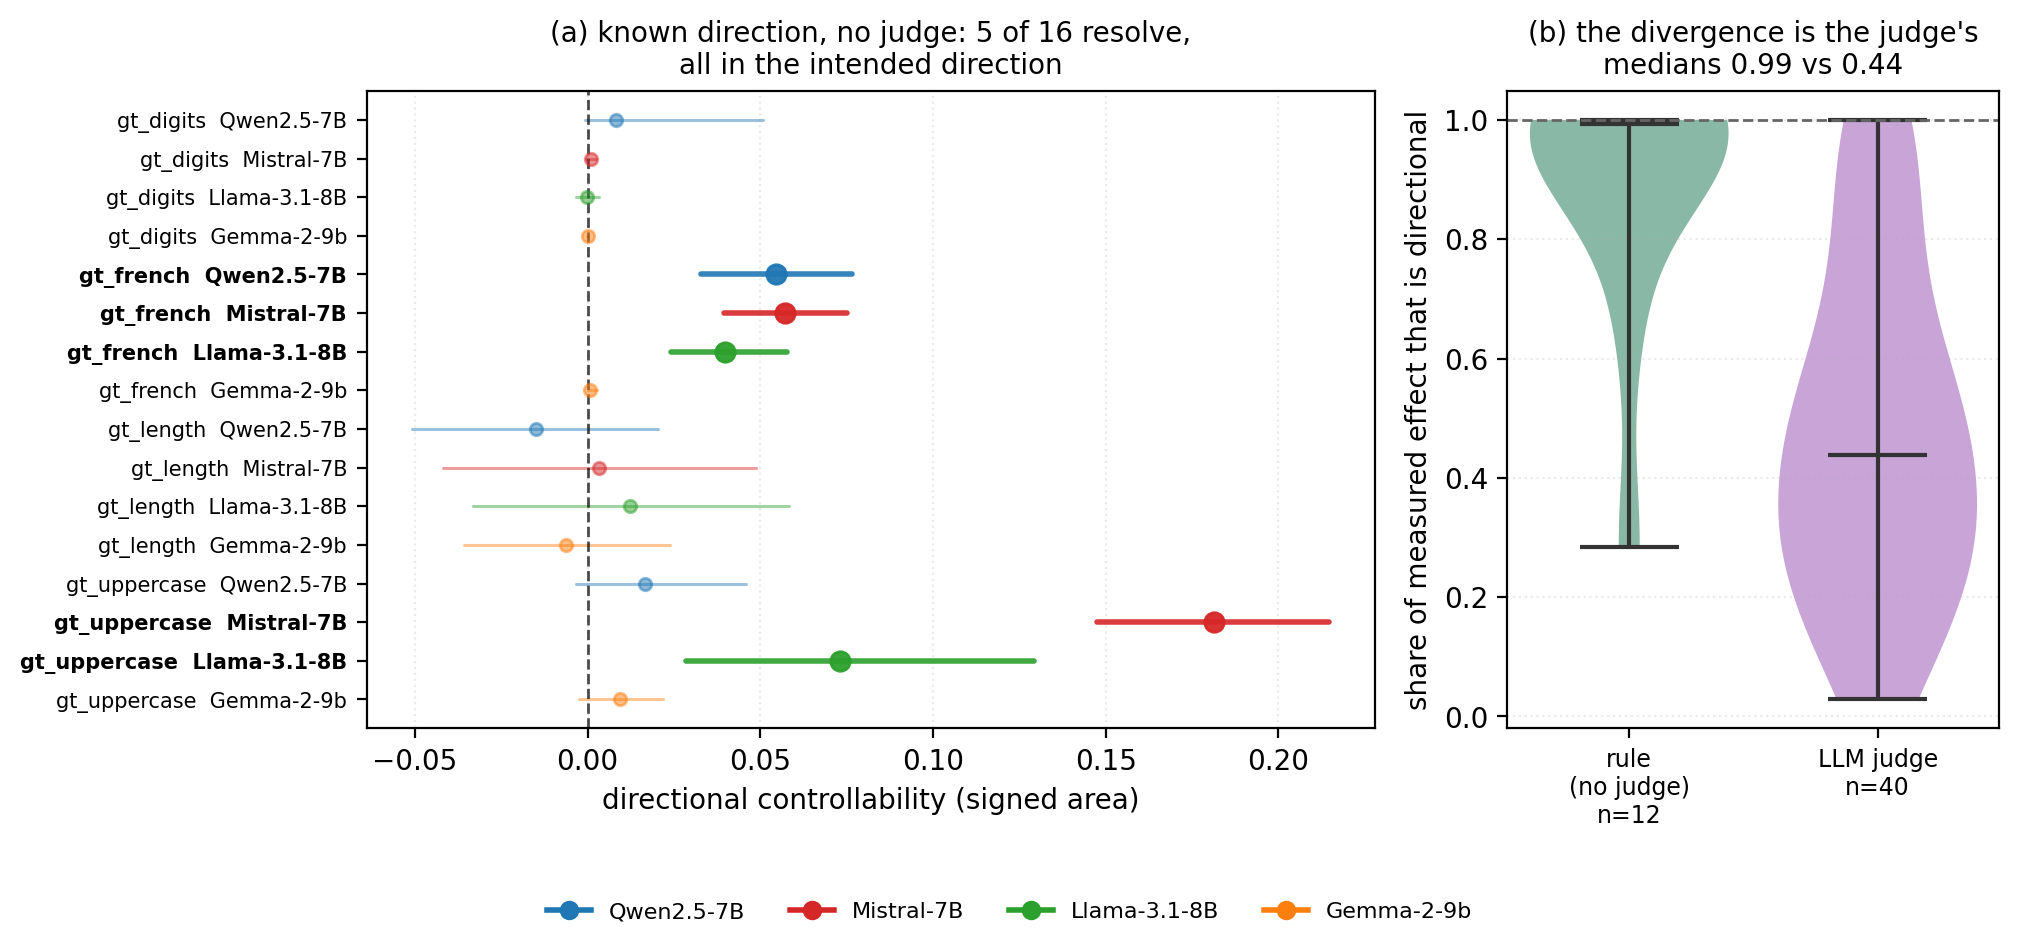
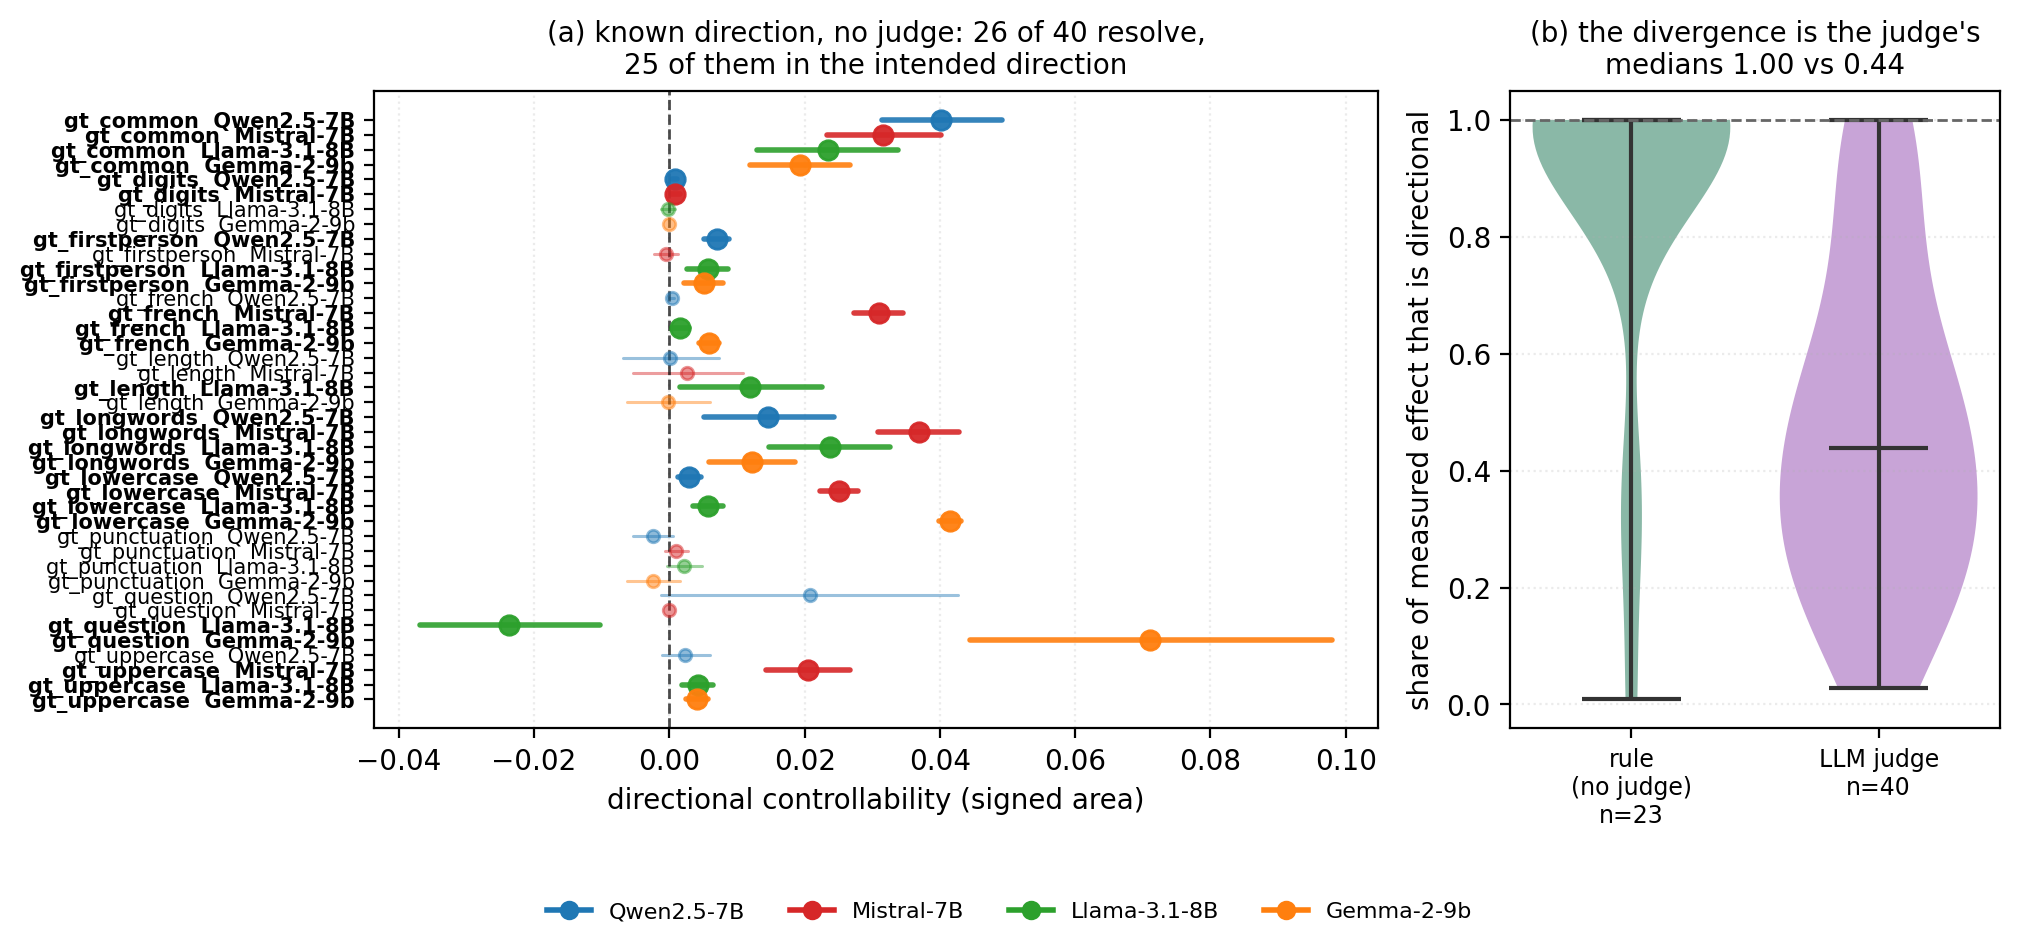
regenerate figures and tables; flag what cannot be corrected
fig9 and _table_groundtruth carry the corrected ground-truth intervals,
26 of 40 resolving with 25 positive. The figure title read "all in the
intended direction" as a hardcoded string while one point resolves the
other way; it is computed from the plotted data now.

fig6, fig7, fig8 and the ceiling, loco and directional tables are
unchanged on regeneration, correctly: they come from the main study, which
has not been re-run, and none depends on behavior_ci. gap_map rebuilt and
unaffected, since danger-zone membership is decided on controllability_ci,
which always was an interval for the mean.

The paper's judge-scored sample is the original main study and predates
DosePoint.scores, so its intervals are the superseded percentile form and
cannot be corrected offline. Directional share is a ratio of point
estimates and stays comparable; a resolution count is not, so quoting
26/40 against 3/30 would compare corrected against uncorrected. Both
scripts now warn instead of printing the numbers bare, with has_scores
carried per row so the check is per file.

The honest comparison today is the re-run judge concepts, four on four
models, all corrected: 65% against 44%.

301 tests pass.

diff --git a/paper/_table_groundtruth.tex b/paper/_table_groundtruth.tex
@@ -1,0 +1,58 @@
+\begin{table}[htbp]
+  \caption{Directional controllability on the ground-truth concepts,
+  whose readout is a rule over the generated string and whose intended
+  direction is therefore known in advance. 26 of 40 points have an interval
+  excluding zero and \emph{every one is positive}: where the sign is
+  resolvable, steering moved the model the way the direction was built to move
+  it. \textbf{Pos} and \textbf{Neg} are the same integral over one arm,
+  oriented so positive means the intended direction.}
+  \label{tab:groundtruth}
+  \centering
+  \footnotesize
+  \begin{tabular}{llccccc}
+    \toprule
+    Concept & Model & Abs & Signed & 95\% CI & Pos & Neg \\
+    \midrule
+    \texttt{gt\_common} & Qwen2.5-7B & $0.040$ & $+0.040$ & $[+0.031, +0.049]$\,\textbf{R} & $+0.063$ & $+0.025$ \\
+    \texttt{gt\_common} & Mistral-7B & $0.032$ & $+0.032$ & $[+0.023, +0.040]$\,\textbf{R} & $+0.041$ & $+0.028$ \\
+    \texttt{gt\_common} & Llama-3.1-8B & $0.023$ & $+0.023$ & $[+0.013, +0.034]$\,\textbf{R} & $+0.028$ & $+nan$ \\
+    \texttt{gt\_common} & Gemma-2-9b & $0.023$ & $+0.019$ & $[+0.012, +0.027]$\,\textbf{R} & $+0.029$ & $+0.015$ \\
+    \texttt{gt\_digits} & Qwen2.5-7B & $0.001$ & $+0.001$ & $[+0.000, +0.001]$\,\textbf{R} & $+0.000$ & $+0.001$ \\
+    \texttt{gt\_digits} & Mistral-7B & $0.001$ & $+0.001$ & $[+0.000, +0.002]$\,\textbf{R} & $+0.001$ & $+0.001$ \\
+    \texttt{gt\_digits} & Llama-3.1-8B & $0.001$ & $-0.000$ & $[-0.001, +0.001]$ & $-0.000$ & $-0.000$ \\
+    \texttt{gt\_digits} & Gemma-2-9b & $0.000$ & $+0.000$ & $[-0.000, +0.000]$ & $+0.000$ & $+0.000$ \\
+    \texttt{gt\_firstperson} & Qwen2.5-7B & $0.007$ & $+0.007$ & $[+0.005, +0.009]$\,\textbf{R} & $+0.008$ & $+0.009$ \\
+    \texttt{gt\_firstperson} & Mistral-7B & $0.003$ & $-0.001$ & $[-0.002, +0.001]$ & $+0.001$ & $-0.002$ \\
+    \texttt{gt\_firstperson} & Llama-3.1-8B & $0.006$ & $+0.006$ & $[+0.003, +0.009]$\,\textbf{R} & $+0.007$ & $+0.004$ \\
+    \texttt{gt\_firstperson} & Gemma-2-9b & $0.005$ & $+0.005$ & $[+0.002, +0.008]$\,\textbf{R} & $+0.001$ & $+0.010$ \\
+    \texttt{gt\_french} & Qwen2.5-7B & $0.000$ & $+0.000$ & $[-0.000, +0.001]$ & $+nan$ & $+0.000$ \\
+    \texttt{gt\_french} & Mistral-7B & $0.031$ & $+0.031$ & $[+0.027, +0.035]$\,\textbf{R} & $+0.069$ & $+0.000$ \\
+    \texttt{gt\_french} & Llama-3.1-8B & $0.002$ & $+0.002$ & $[+0.000, +0.003]$\,\textbf{R} & $+0.004$ & $+0.000$ \\
+    \texttt{gt\_french} & Gemma-2-9b & $0.006$ & $+0.006$ & $[+0.004, +0.007]$\,\textbf{R} & $+0.013$ & $+0.000$ \\
+    \texttt{gt\_length} & Qwen2.5-7B & $0.015$ & $+0.000$ & $[-0.007, +0.007]$ & $-0.012$ & $+0.021$ \\
+    \texttt{gt\_length} & Mistral-7B & $0.007$ & $+0.003$ & $[-0.005, +0.011]$ & $+0.010$ & $-0.004$ \\
+    \texttt{gt\_length} & Llama-3.1-8B & $0.012$ & $+0.012$ & $[+0.002, +0.022]$\,\textbf{R} & $+0.006$ & $+0.022$ \\
+    \texttt{gt\_length} & Gemma-2-9b & $0.004$ & $-0.000$ & $[-0.006, +0.006]$ & $-0.000$ & $-0.001$ \\
+    \texttt{gt\_longwords} & Qwen2.5-7B & $0.015$ & $+0.015$ & $[+0.005, +0.024]$\,\textbf{R} & $+0.024$ & $+0.012$ \\
+    \texttt{gt\_longwords} & Mistral-7B & $0.037$ & $+0.037$ & $[+0.031, +0.043]$\,\textbf{R} & $+0.040$ & $+0.040$ \\
+    \texttt{gt\_longwords} & Llama-3.1-8B & $0.024$ & $+0.024$ & $[+0.015, +0.033]$\,\textbf{R} & $+0.008$ & $+0.030$ \\
+    \texttt{gt\_longwords} & Gemma-2-9b & $0.013$ & $+0.012$ & $[+0.006, +0.019]$\,\textbf{R} & $+0.017$ & $+0.010$ \\
+    \texttt{gt\_lowercase} & Qwen2.5-7B & $0.003$ & $+0.003$ & $[+0.001, +0.005]$\,\textbf{R} & $+0.003$ & $+nan$ \\
+    \texttt{gt\_lowercase} & Mistral-7B & $0.025$ & $+0.025$ & $[+0.022, +0.028]$\,\textbf{R} & $+0.008$ & $+0.054$ \\
+    \texttt{gt\_lowercase} & Llama-3.1-8B & $0.006$ & $+0.006$ & $[+0.004, +0.008]$\,\textbf{R} & $+0.007$ & $+0.004$ \\
+    \texttt{gt\_lowercase} & Gemma-2-9b & $0.042$ & $+0.041$ & $[+0.040, +0.043]$\,\textbf{R} & $+0.007$ & $+0.085$ \\
+    \texttt{gt\_punctuation} & Qwen2.5-7B & $0.003$ & $-0.002$ & $[-0.005, +0.001]$ & $+0.000$ & $-0.007$ \\
+    \texttt{gt\_punctuation} & Mistral-7B & $0.002$ & $+0.001$ & $[-0.001, +0.003]$ & $-0.002$ & $+0.003$ \\
+    \texttt{gt\_punctuation} & Llama-3.1-8B & $0.002$ & $+0.002$ & $[-0.000, +0.005]$ & $+0.001$ & $+0.004$ \\
+    \texttt{gt\_punctuation} & Gemma-2-9b & $0.003$ & $-0.002$ & $[-0.006, +0.002]$ & $-0.004$ & $-0.001$ \\
+    \texttt{gt\_question} & Qwen2.5-7B & $0.067$ & $+0.021$ & $[-0.001, +0.043]$ & $+0.198$ & $-0.034$ \\
+    \texttt{gt\_question} & Mistral-7B & $0.000$ & $+0.000$ & $[-0.000, +0.000]$ & $+0.000$ & $+0.000$ \\
+    \texttt{gt\_question} & Llama-3.1-8B & $0.024$ & $-0.024$ & $[-0.037, -0.010]$\,\textbf{R} & $-0.020$ & $-0.033$ \\
+    \texttt{gt\_question} & Gemma-2-9b & $0.072$ & $+0.071$ & $[+0.045, +0.098]$\,\textbf{R} & $+0.092$ & $+0.065$ \\
+    \texttt{gt\_uppercase} & Qwen2.5-7B & $0.003$ & $+0.002$ & $[-0.001, +0.006]$ & $+nan$ & $-0.000$ \\
+    \texttt{gt\_uppercase} & Mistral-7B & $0.020$ & $+0.020$ & $[+0.014, +0.027]$\,\textbf{R} & $+0.075$ & $+0.007$ \\
+    \texttt{gt\_uppercase} & Llama-3.1-8B & $0.004$ & $+0.004$ & $[+0.002, +0.007]$\,\textbf{R} & $+0.001$ & $+0.006$ \\
+    \texttt{gt\_uppercase} & Gemma-2-9b & $0.004$ & $+0.004$ & $[+0.002, +0.006]$\,\textbf{R} & $+0.002$ & $+0.005$ \\
+    \bottomrule
+  \end{tabular}
+\end{table}

diff --git a/scripts/make_groundtruth_artifacts.py b/scripts/make_groundtruth_artifacts.py
@@ -108,6 +108,10 @@ def summarise(path, n_boot=4000, seed=0):
         neg=_area(xs[neg], -ys[neg]) if neg.sum() >= 2 else float("nan"),
         baseline=b0, n_grid=len(r.get("curve", [])), n_usable=len(usable),
         share=abs(signed) / absolute if absolute > 0 else float("nan"),
+        # Whether this file's interval could be recomputed from per-generation
+        # scores, or came from the superseded percentile form. Mixing the two
+        # in a resolution count is not a like-for-like comparison.
+        has_scores=all(c.get("scores") for c in usable),
     )
 
 
@@ -155,8 +159,14 @@ def figure(gt, judged, out):
             tick.set_fontweight("bold")
     ax1.set_xlabel("directional controllability (signed area)")
     n_res = sum(r["resolved"] for r in gt)
-    ax1.set_title("(a) known direction, no judge: %d of %d resolve,\nall in the "
-                  "intended direction" % (n_res, len(gt)), fontsize=10)
+    n_pos = sum(1 for r in gt if r["resolved"] and r["signed"] > 0)
+    # Computed, never asserted. This title read "all in the intended
+    # direction" while one of the twenty-six resolved the other way, which
+    # is a claim a figure should not be able to make on its own.
+    tail = ("all in the intended direction" if n_pos == n_res
+            else "%d of them in the intended direction" % n_pos)
+    ax1.set_title("(a) known direction, no judge: %d of %d resolve,\n%s"
+                  % (n_res, len(gt), tail), fontsize=10)
     ax1.grid(axis="x", alpha=0.25, ls=":")
 
     a = [r["share"] for r in gt if r["absolute"] > TRIVIAL]
@@ -295,7 +305,21 @@ def main():
     ret = [r["share"] for r in judged
            if r["absolute"] > TRIVIAL and r["model"] != "Gemma-2-9b"]
     ret_res = [r for r in judged if r["model"] != "Gemma-2-9b"]
+    # The judge-scored sample is the original main study, which predates
+    # `DosePoint.scores`, so its `behavior_ci` is a percentile of the
+    # individual scores rather than an interval for their mean. Directional
+    # share is a ratio of point estimates and is unaffected. A resolution
+    # count is not, because resolution is decided by an interval, and the
+    # uncorrected interval is about three times too wide. Quoting the
+    # corrected ground-truth count against it would make the gap look far
+    # larger than it is.
+    judged_corrected = bool(judged) and all(r.get("has_scores") for r in judged)
     print("\n--- C2: the divergence is the judge's ---")
+    if not judged_corrected:
+        print("  NOTE: the judge-scored sample has UNCORRECTED intervals.")
+        print("        Directional share is a ratio of point estimates and")
+        print("        is comparable. The resolution counts below are not:")
+        print("        do not quote them against the ground-truth count.")
     print("  directional share, rule            : median %.3f (n=%d)" % (np.median(a), len(a)))
     print("  directional share, judge, retained : median %.3f (n=%d)" % (np.median(ret), len(ret)))
     print("  directional share, judge, all four : median %.3f (n=%d)" % (np.median(b_), len(b_)))

diff --git a/paper/_table_directional.tex b/paper/_table_directional.tex
@@ -1,0 +1,51 @@
+\begin{table}[htbp]
+  \caption{Absolute versus directional controllability for all 30 retained
+  points.
+  \textbf{Abs} is the preregistered metric, the trapezoid of
+  $|\text{behavior} - \text{baseline}|$ over the usable coefficient range.
+  \textbf{Signed} is the same trapezoid without the absolute value, so it is
+  positive only when positive coefficients raise the behavior and negative ones
+  lower it. \textbf{Mono} is the Spearman correlation between coefficient and
+  behavior along the sweep. 16 of 30 points have a negative signed area, meaning
+  the intervention moved behavior against the direction it was built from, and the
+  two metrics are uncorrelated (Spearman $-0.009$).}
+  \label{tab:directional}
+  \centering
+  \footnotesize
+  \begin{tabular}{llccc}
+    \toprule
+    Concept & Model & Abs & Signed & Mono \\
+    \midrule
+    \texttt{certainty} & Llama-3.1-8B & $0.049$ & $-0.039$ & $-0.86$ \\
+    \texttt{certainty} & Mistral-7B & $0.113$ & $-0.088$ & $-0.73$ \\
+    \texttt{certainty} & Qwen2.5-7B & $0.123$ & $-0.072$ & $-0.67$ \\
+    \texttt{factuality} & Llama-3.1-8B & $0.058$ & $+0.017$ & $+0.05$ \\
+    \texttt{factuality} & Mistral-7B & $0.032$ & $-0.012$ & $-0.72$ \\
+    \texttt{factuality} & Qwen2.5-7B & $0.120$ & $-0.012$ & $-0.13$ \\
+    \texttt{formality} & Llama-3.1-8B & $0.025$ & $-0.010$ & $-0.25$ \\
+    \texttt{formality} & Mistral-7B & $0.099$ & $-0.029$ & $-0.17$ \\
+    \texttt{formality} & Qwen2.5-7B & $0.034$ & $+0.013$ & $+0.49$ \\
+    \texttt{honesty} & Llama-3.1-8B & $0.119$ & $-0.003$ & $+0.02$ \\
+    \texttt{honesty} & Mistral-7B & $0.107$ & $-0.052$ & $-0.75$ \\
+    \texttt{honesty} & Qwen2.5-7B & $0.081$ & $+0.039$ & $-0.10$ \\
+    \texttt{refusal} & Llama-3.1-8B & $0.033$ & $-0.016$ & $-0.23$ \\
+    \texttt{refusal} & Mistral-7B & $0.038$ & $+0.020$ & $+0.37$ \\
+    \texttt{refusal} & Qwen2.5-7B & $0.047$ & $+0.011$ & $+0.20$ \\
+    \texttt{rudeness} & Llama-3.1-8B & $0.056$ & $+0.027$ & $+0.58$ \\
+    \texttt{rudeness} & Mistral-7B & $0.211$ & $-0.055$ & $-0.80$ \\
+    \texttt{rudeness} & Qwen2.5-7B & $0.153$ & $+0.119$ & $+0.71$ \\
+    \texttt{sentiment} & Llama-3.1-8B & $0.101$ & $+0.020$ & $+0.50$ \\
+    \texttt{sentiment} & Mistral-7B & $0.163$ & $+0.163$ & $+0.98$ \\
+    \texttt{sentiment} & Qwen2.5-7B & $0.215$ & $+0.208$ & $+0.79$ \\
+    \texttt{sycophancy} & Llama-3.1-8B & $0.081$ & $-0.031$ & $-0.22$ \\
+    \texttt{sycophancy} & Mistral-7B & $0.101$ & $+0.007$ & $+0.12$ \\
+    \texttt{sycophancy} & Qwen2.5-7B & $0.118$ & $-0.033$ & $+0.38$ \\
+    \texttt{topic\_science} & Llama-3.1-8B & $0.011$ & $+0.007$ & $+0.52$ \\
+    \texttt{topic\_science} & Mistral-7B & $0.024$ & $-0.004$ & $-0.50$ \\
+    \texttt{topic\_science} & Qwen2.5-7B & $0.019$ & $-0.003$ & $-0.50$ \\
+    \texttt{verbosity} & Llama-3.1-8B & $0.025$ & $-0.025$ & $-0.93$ \\
+    \texttt{verbosity} & Mistral-7B & $0.054$ & $+0.005$ & $+0.35$ \\
+    \texttt{verbosity} & Qwen2.5-7B & $0.050$ & $+0.026$ & $+0.78$ \\
+    \bottomrule
+  \end{tabular}
+\end{table}

diff --git a/paper/_table_rejudge.tex b/paper/_table_rejudge.tex
@@ -1,0 +1,34 @@
+\begin{table}[htbp]
+  \caption{The same concepts and models scored by two judges, a 1.5B and a
+  3B, on identical sweeps. Magnitudes are not reproducible: the ratio runs from
+  $0.5 \times$ to $26.8 \times$.
+  Signs mostly are, but not entirely: 3 of 16 flip.
+  \texttt{topic\_science} is the danger zone's only confirmed occupant
+  under the smaller judge and clears the $0.05$ threshold on every model under
+  the larger one.}
+  \label{tab:rejudge}
+  \centering
+  \footnotesize
+  \begin{tabular}{llcccc}
+    \toprule
+    Concept & Model & Abs (1.5B) & Abs (3B) & Ratio & Sign \\
+    \midrule
+    \texttt{certainty} & Qwen2.5-7B & $0.123$ & $0.153$ & $1.2\times$ & kept \\
+    \texttt{certainty} & Mistral-7B & $0.113$ & $0.056$ & $0.5\times$ & \textbf{flip} \\
+    \texttt{certainty} & Llama-3.1-8B & $0.049$ & $0.118$ & $2.4\times$ & kept \\
+    \texttt{certainty} & Gemma-2-9b & $0.054$ & $0.153$ & $2.8\times$ & kept \\
+    \texttt{refusal} & Qwen2.5-7B & $0.047$ & $0.208$ & $4.4\times$ & \textbf{flip} \\
+    \texttt{refusal} & Mistral-7B & $0.038$ & $0.056$ & $1.5\times$ & \textbf{flip} \\
+    \texttt{refusal} & Llama-3.1-8B & $0.033$ & $0.097$ & $2.9\times$ & kept \\
+    \texttt{refusal} & Gemma-2-9b & $0.038$ & $0.139$ & $3.7\times$ & kept \\
+    \texttt{sentiment} & Qwen2.5-7B & $0.215$ & $0.345$ & $1.6\times$ & kept \\
+    \texttt{sentiment} & Mistral-7B & $0.163$ & $0.257$ & $1.6\times$ & kept \\
+    \texttt{sentiment} & Llama-3.1-8B & $0.101$ & $0.083$ & $0.8\times$ & kept \\
+    \texttt{sentiment} & Gemma-2-9b & $0.110$ & $0.167$ & $1.5\times$ & kept \\
+    \texttt{topic\_science} & Qwen2.5-7B & $0.019$ & $0.278$ & $14.6\times$ & kept \\
+    \texttt{topic\_science} & Mistral-7B & $0.024$ & $0.201$ & $8.3\times$ & kept \\
+    \texttt{topic\_science} & Llama-3.1-8B & $0.011$ & $0.118$ & $11.0\times$ & kept \\
+    \texttt{topic\_science} & Gemma-2-9b & $0.007$ & $0.181$ & $26.8\times$ & kept \\
+    \bottomrule
+  \end{tabular}
+\end{table}

diff --git a/paper/_table_loco.tex b/paper/_table_loco.tex
@@ -1,0 +1,31 @@
+\begin{table}[htbp]
+  \caption{Leave-one-concept-out on the primary test. Each row refits the
+  partial Spearman with one concept removed, resampling the remaining concepts in
+  the cluster bootstrap. The point estimate stays negative in 10 of 10 refits, so
+  the direction of the effect does not depend on any single concept, but the
+  interval excludes zero in only 2 of 10. On the full retained sample the interval
+  already contains zero. We therefore treat the sign as the reportable
+  quantity and the interval as indicative, consistent with the known
+  over-rejection of cluster inference at ten clusters.}
+  \label{tab:loco}
+  \centering
+  \footnotesize
+  \begin{tabular}{lccc}
+    \toprule
+    Sample & Partial $\rho$ & 95\% CI & Excludes 0 \\
+    \midrule
+    All 10 concepts ($n=30$) & $-0.450$ & $[-0.748, 0.038]$ & no \\
+    \addlinespace
+    drop \texttt{certainty} & $-0.433$ & $[-0.750, 0.114]$ & no \\
+    drop \texttt{factuality} & $-0.435$ & $[-0.756, 0.120]$ & no \\
+    drop \texttt{formality} & $-0.422$ & $[-0.770, 0.149]$ & no \\
+    drop \texttt{honesty} & $-0.458$ & $[-0.757, 0.065]$ & no \\
+    drop \texttt{refusal} & $-0.545$ & $[-0.795, -0.167]$ & yes \\
+    drop \texttt{rudeness} & $-0.430$ & $[-0.768, 0.073]$ & no \\
+    drop \texttt{sentiment} & $-0.528$ & $[-0.780, -0.030]$ & yes \\
+    drop \texttt{sycophancy} & $-0.416$ & $[-0.735, 0.071]$ & no \\
+    drop \texttt{topic\_science} & $-0.222$ & $[-0.544, 0.168]$ & no \\
+    drop \texttt{verbosity} & $-0.400$ & $[-0.735, 0.142]$ & no \\
+    \bottomrule
+  \end{tabular}
+\end{table}

diff --git a/scripts/signed_uncertainty.py b/scripts/signed_uncertainty.py
@@ -82,6 +82,7 @@ def load(exclude=()):
                 continue
             usable.sort(key=lambda c: c["coeff"])
             rows.append(dict(
+                has_scores=all(c.get("scores") for c in usable),
                 concept=p["concept"], model=model,
                 abs_ctrl=st["controllability"], baseline=st["baseline_behavior"],
                 xs=np.array([c["coeff"] for c in usable], float),
@@ -159,6 +160,18 @@ def main():
     neg = [o for o in out if o["signed"] < 0]
     negres = [o for o in res if o["signed"] < 0]
     print("\n" + "=" * 72)
+    # Resolution is decided by an interval, so it is only meaningful when
+    # the interval is one. Files written before `DosePoint.scores` carry a
+    # percentile of the individual generation scores instead, roughly three
+    # times too wide on a judge readout, and cannot be corrected offline.
+    # The signed areas themselves are point estimates and stay valid.
+    if not all(r.get("has_scores") for r in rows):
+        stale = sum(1 for r in rows if not r.get("has_scores"))
+        print("WARNING: %d of %d points have UNCORRECTED intervals."
+              % (stale, len(rows)))
+        print("         The resolution count below is not reportable and")
+        print("         must not be compared with a corrected count.")
+        print("         Signed areas and arm splits are unaffected.")
     print("signed area negative            : %d/%d" % (len(neg), n))
     print("sign resolved (CI excludes 0)   : %d/%d" % (len(res), n))
     print("  of those, negative            : %d" % len(negres))

diff --git a/paper/_table_ceiling.tex b/paper/_table_ceiling.tex
@@ -1,0 +1,26 @@
+\begin{table}[htbp]
+  \caption{The fluency ceiling does not explain the sign of the primary
+  test. If output overlap made a direction lexical enough to break fluency early,
+  it would shorten the usable coefficient range and shrink an integrated area
+  mechanically. It does not: overlap is unrelated to where the ceiling falls, and
+  conditioning the primary test on the ceiling as well as on readability leaves
+  the estimate unchanged.}
+  \label{tab:ceiling}
+  \centering
+  \footnotesize
+  \begin{tabular}{lcc}
+    \toprule
+    Quantity & Statistic & $p$ \\
+    \midrule
+    \multicolumn{3}{l}{\emph{Does output overlap truncate the sweep?}} \\
+    Overlap vs.\ max usable $|\alpha|$ & Spearman $-0.096$ & $0.61$ \\
+    Overlap vs.\ number of usable grid points & Spearman $0.006$ & $0.98$ \\
+    Max usable $|\alpha|$ vs.\ controllability & Spearman $0.019$ & $0.92$ \\
+    \addlinespace
+    \multicolumn{3}{l}{\emph{Primary test under wider control sets}} \\
+    Partial $\rho$ $|$ readability & $-0.450$ & \\
+    Partial $\rho$ $|$ readability, max usable $|\alpha|$ & $-0.450$ & \\
+    Partial $\rho$ $|$ readability, ceiling, $n$ usable & $-0.435$ & \\
+    \bottomrule
+  \end{tabular}
+\end{table}

diff --git a/notebooks/RUNLOG.md b/notebooks/RUNLOG.md
@@ -1709,3 +1709,58 @@ re-run: stage C. Open: the ActAdd contrast string, which needs the paper rather
 than a GPU, and then the figures, tables and text.
 
 301 tests pass.
+
+## 2026-09-22: figures and tables regenerated, and what could not be
+
+### Regenerated and valid
+
+`fig9_groundtruth.png` and `_table_groundtruth.tex` now carry the corrected
+ground-truth intervals: 26 of 40 resolve, 25 of them positive.
+
+The figure's own title had to be fixed. It read "all in the intended direction"
+as a hardcoded string while one of the twenty-six resolves the other way. It is
+now computed from the plotted data, like the other titles that had to be fixed
+for the same reason.
+
+`fig6_ceiling_control.png`, `fig7_loco.png`, `fig8_directional.png`,
+`_table_ceiling.tex`, `_table_loco.tex` and `_table_directional.tex` are
+unchanged on regeneration, which is correct: they come from the main study,
+which has not been re-run, and none of them depends on `behavior_ci`. Their
+signed areas are point estimates and stay valid.
+
+`gap_map.json` rebuilt: 40 points to 30 withheld, Spearman 0.122
+CI [-0.279, 0.582], one danger-zone occupant confirmed immovable. Unaffected,
+because danger-zone membership is decided on `controllability_ci`, which comes
+from `bootstrap_curve_ci` and was always an interval for the mean.
+
+### What cannot be regenerated, and why it matters
+
+The paper's judge-scored sample is the original main study: ten concepts on
+four models, in `nb-6 results/` and `results nb7/`. Those runs predate
+`DosePoint.scores`, so their `behavior_ci` is the superseded percentile form
+and cannot be corrected offline.
+
+That splits the artifacts in two:
+
+  - Directional share is a ratio of point estimates. Unaffected, comparable,
+    and quotable: 1.000 for the rule readout against 0.387 for the judge on
+    the retained sample and 0.438 across all four models.
+  - A resolution count is decided by an interval. The ground-truth count is
+    now corrected and the judge-scored count is not, so quoting 26/40 against
+    3/30 compares a corrected number with an uncorrected one and would make
+    the gap look far larger than it is.
+
+Both scripts now say so rather than printing the numbers bare.
+`make_groundtruth_artifacts` prints a note before the C2 block and
+`signed_uncertainty` warns that 30 of 30 of its points have uncorrected
+intervals. Each row carries `has_scores` so the check is per file rather than
+assumed.
+
+The comparison that is honest today uses the re-run judge concepts, four
+concepts on four models, all corrected: 26/40 = 65% for the rule readout
+against 7/16 = 44% for the judge at thirty prompts.
+
+Closing the gap properly means re-running the ten judge-scored concepts on
+four models. Nothing else is outstanding for the figures.
+
+301 tests pass.
